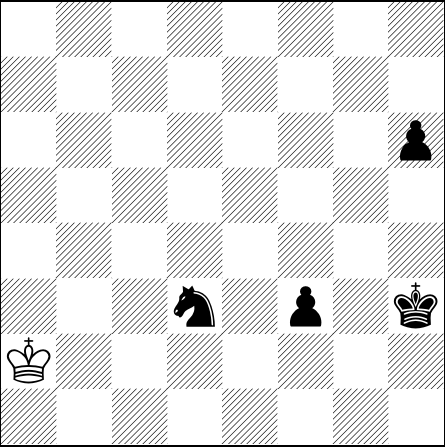
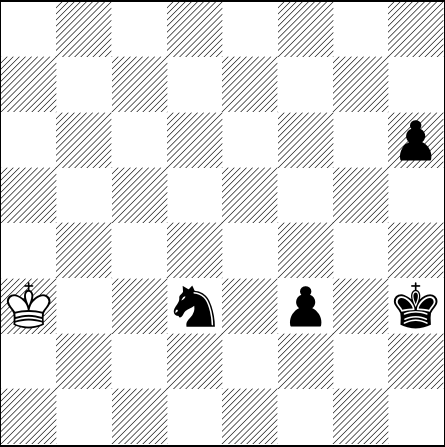
[automated] Regenerate text/pdf for chessboard

Changed region(s): [[0.0, 0.6398, 0.1169, 0.8725]]

diff --git a/default_filepath.tex b/default_filepath.tex
@@ -13,6 +13,6 @@
 \normalsize%
 \setchessboard{showmover=false}%
 \newgame%
-\fenboard{8/8/7p/8/8/3n1p1k/K7/8 w - - 0 170}%
+\fenboard{8/8/7p/8/8/K2n1p1k/8/8 b - - 1 170}%
 \chessboard%
 \end{document}
